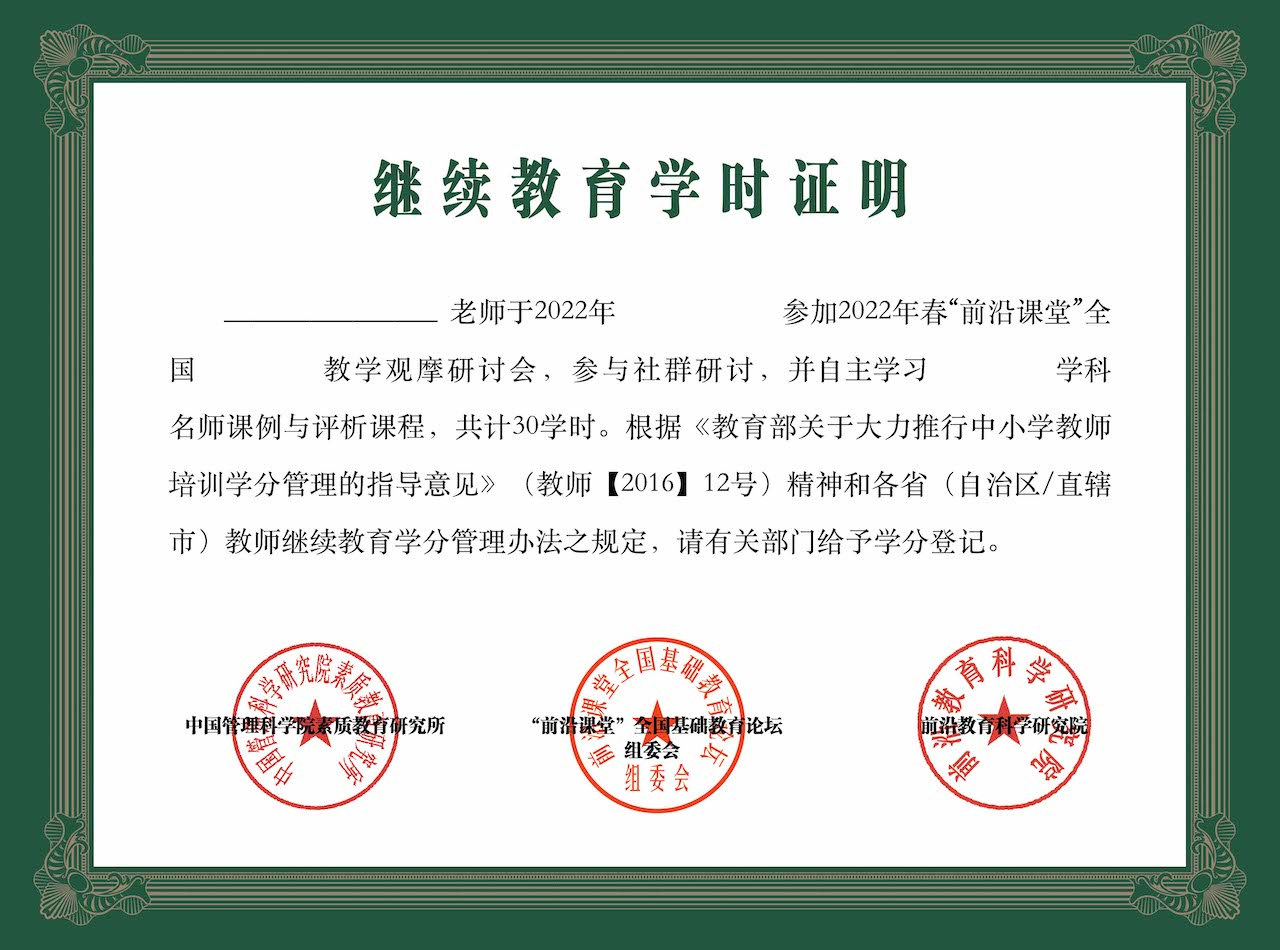
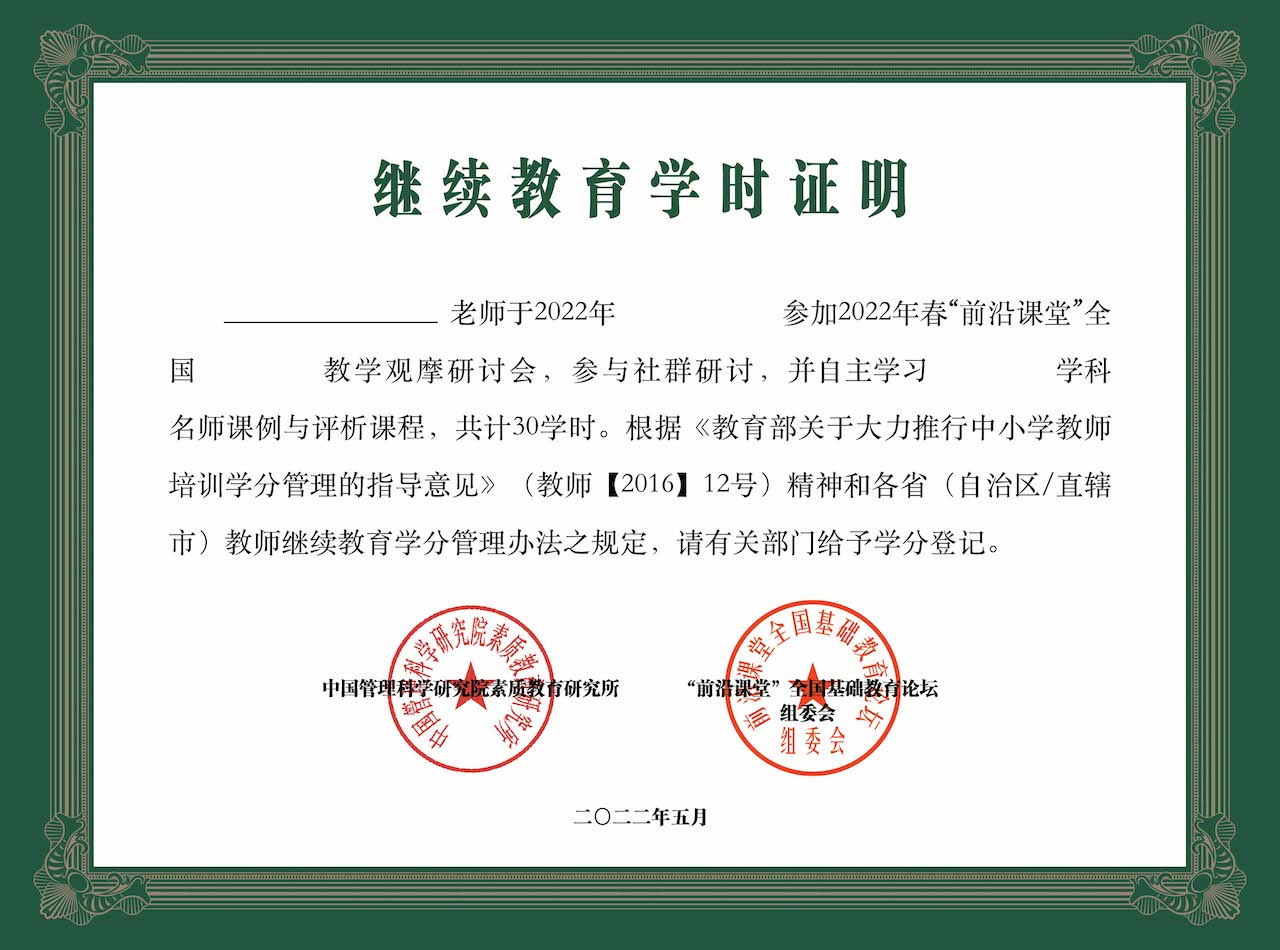
update cert bg

diff --git a/components/frontend/app/controllers/frontend/certifications_controller.rb b/components/frontend/app/controllers/frontend/certifications_controller.rb
@@ -138,6 +138,9 @@ module Frontend
           # pdf.move_down 25
           pdf.draw_text cert_parser.conference.sms_conf_name, :at => [180,535]
           pdf.draw_text cert_parser.conference.sms_conf_name, :at => [895,535]
+
+          # pdf.move_down 800
+          # pdf.text '二〇 二二年五月', align: :center
         end
         pdf
       end
